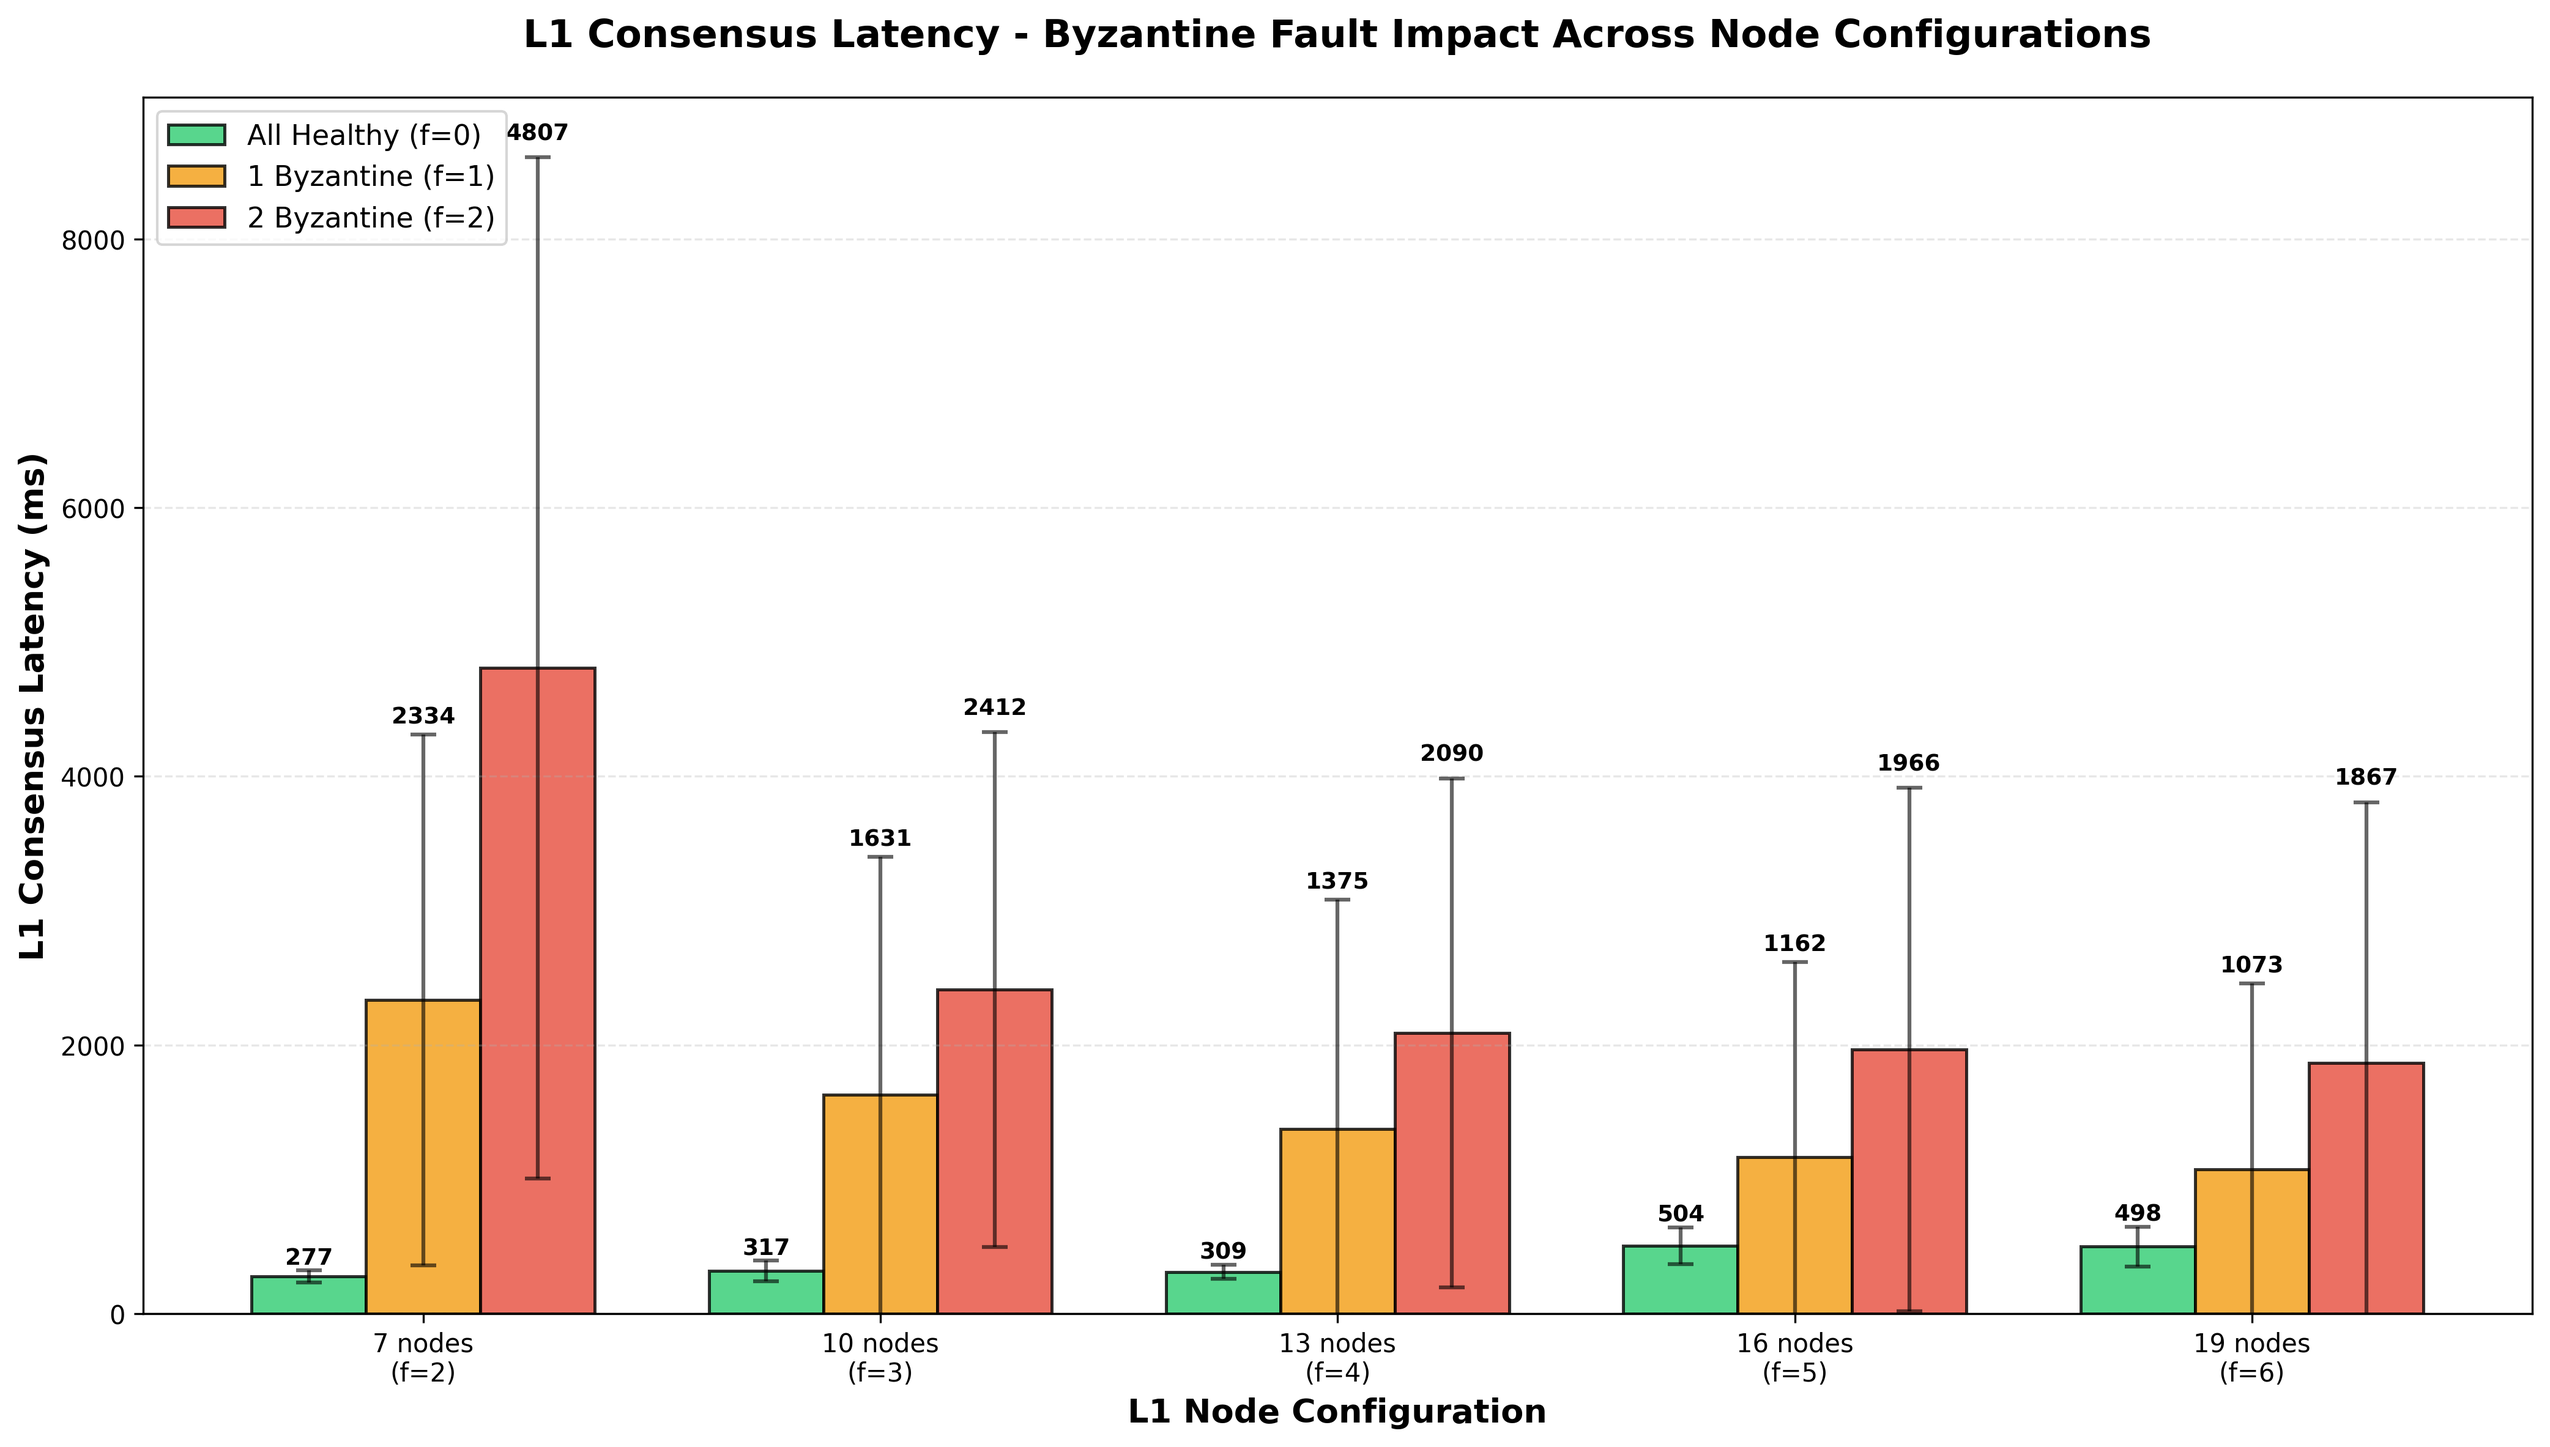
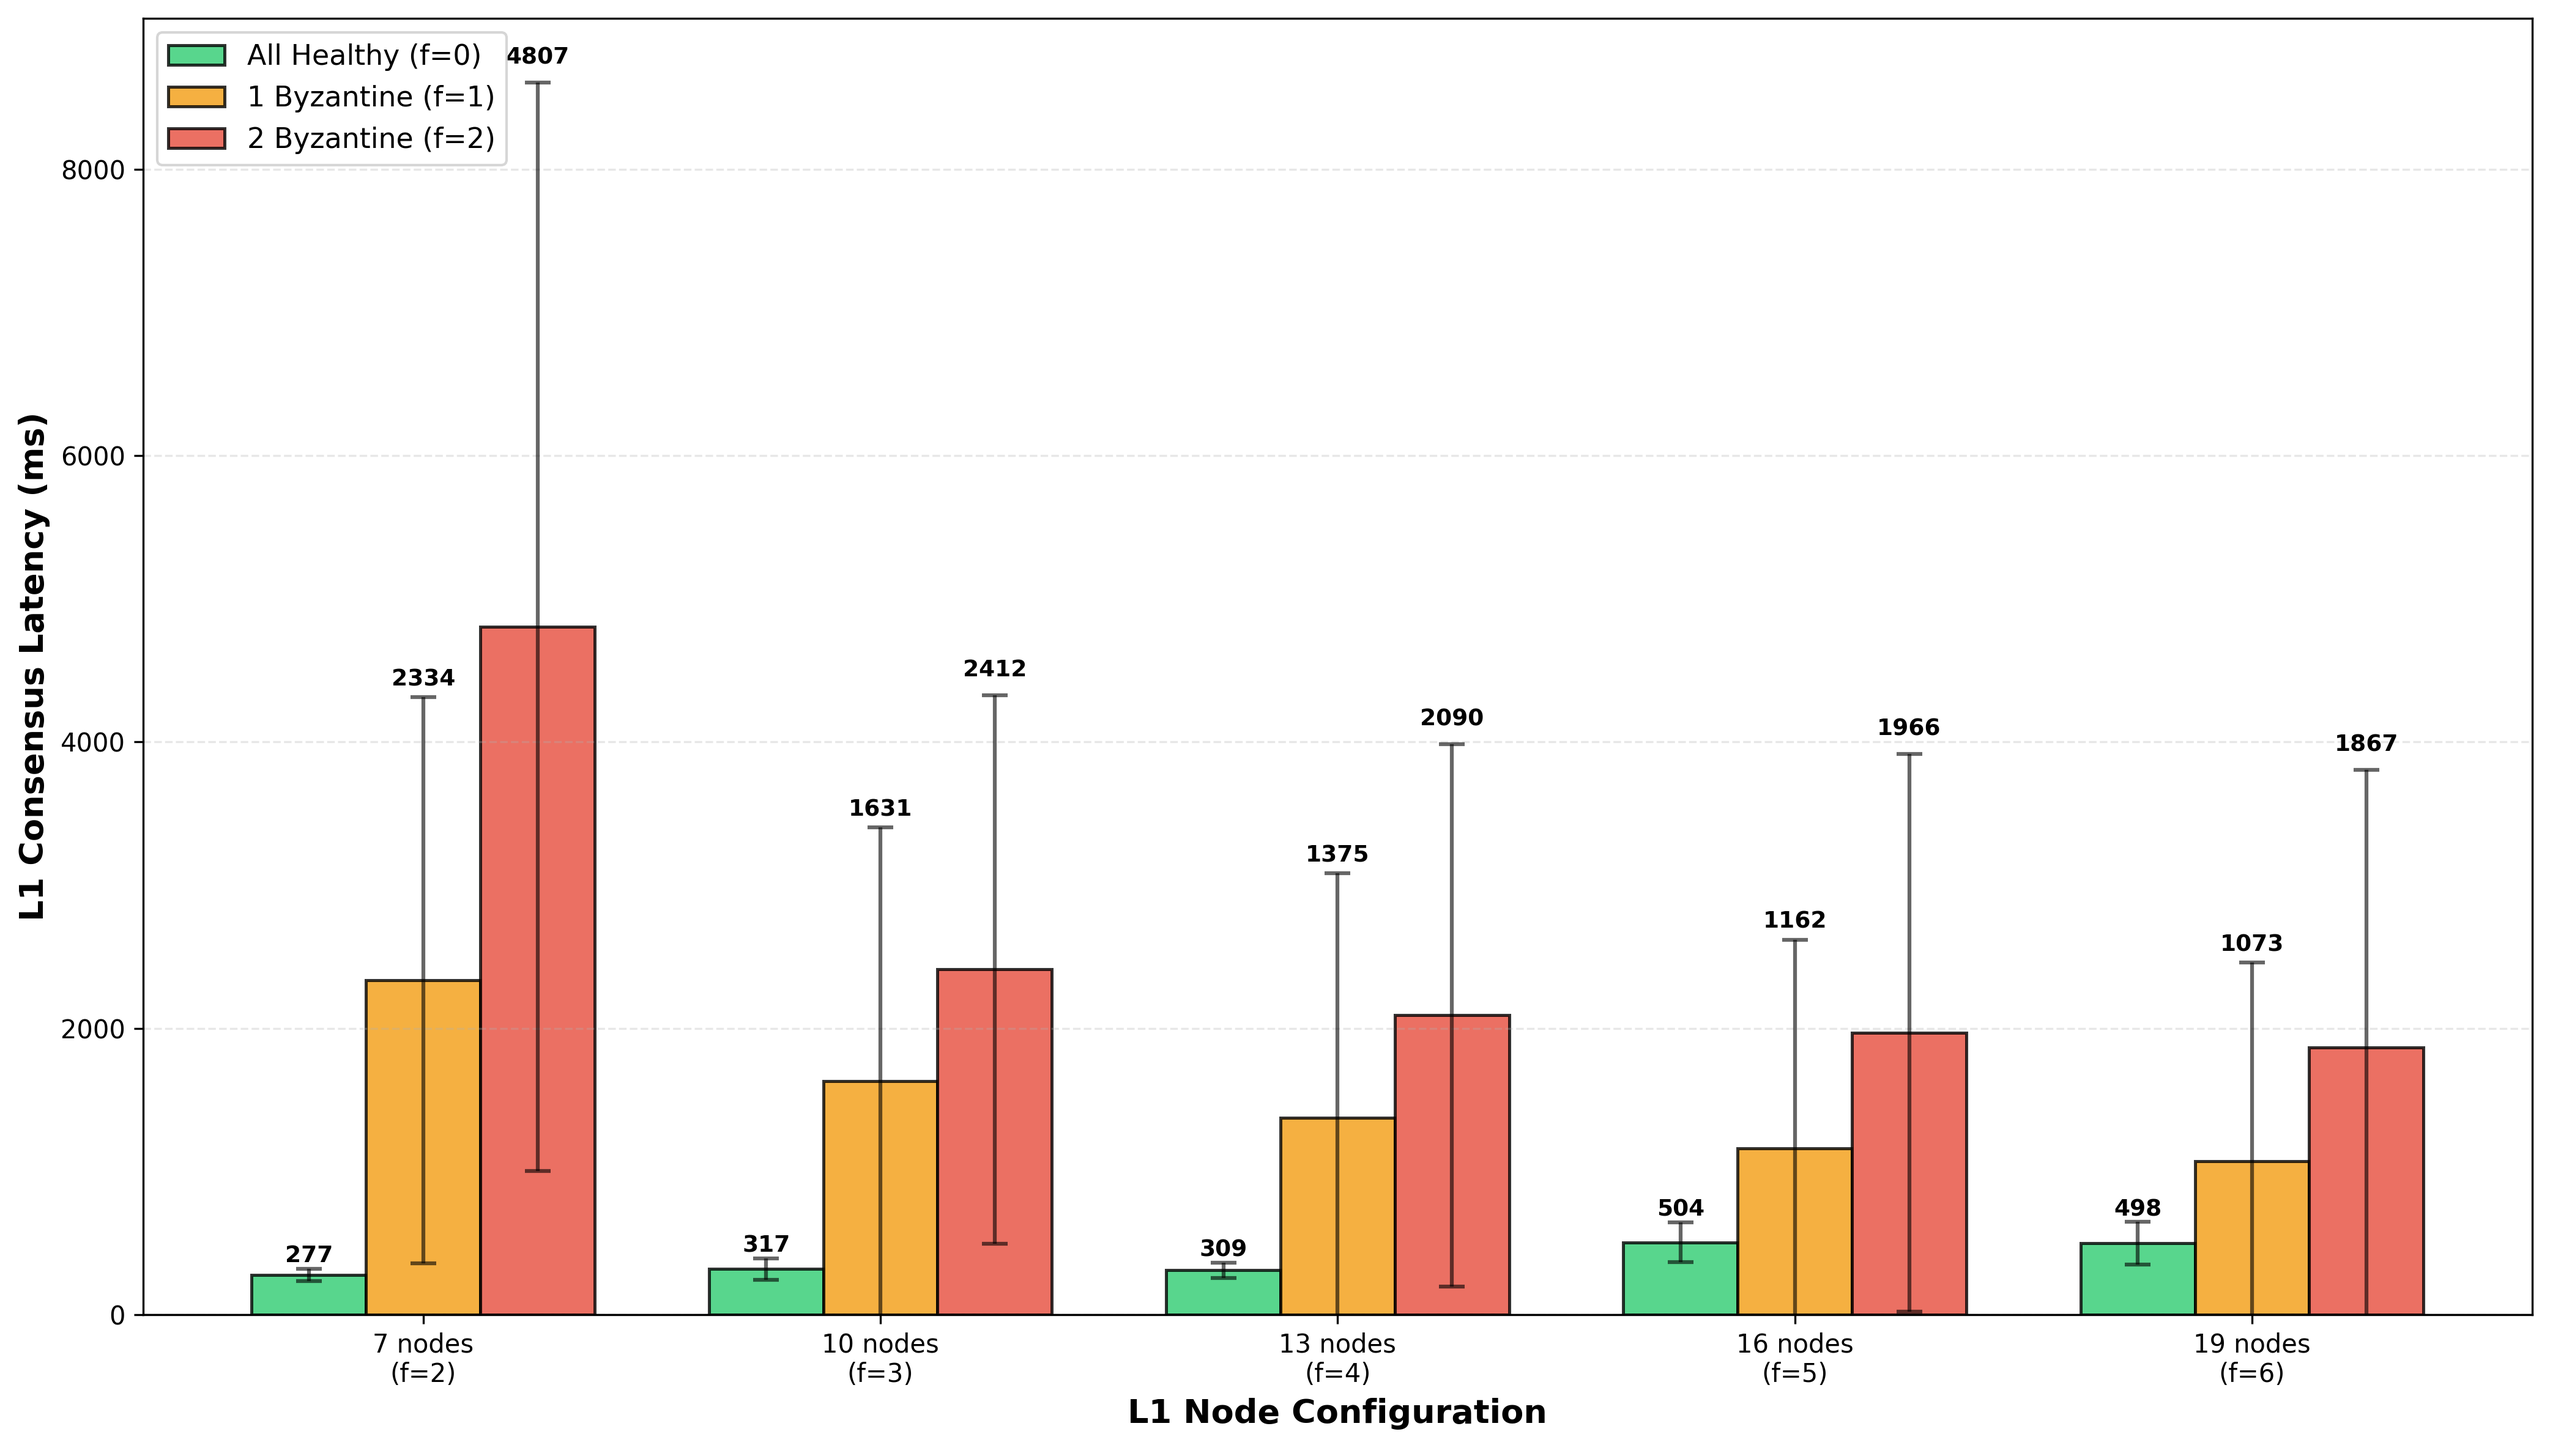
feat: remove title on plot

diff --git a/benchmark/byzantine-fault-test/records/1/plot.py b/benchmark/byzantine-fault-test/records/1/plot.py
@@ -107,8 +107,8 @@ for i, (phase, label, color) in enumerate(zip(phases, phase_labels, colors)):
 # Customize plot
 ax.set_xlabel('L1 Node Configuration', fontsize=13, fontweight='bold')
 ax.set_ylabel('L1 Consensus Latency (ms)', fontsize=13, fontweight='bold')
-ax.set_title('L1 Consensus Latency - Byzantine Fault Impact Across Node Configurations', 
-             fontsize=15, fontweight='bold', pad=20)
+# ax.set_title('L1 Consensus Latency - Byzantine Fault Impact Across Node Configurations', 
+#              fontsize=15, fontweight='bold', pad=20)
 
 # Set x-axis labels with fault tolerance info
 x_labels = []
